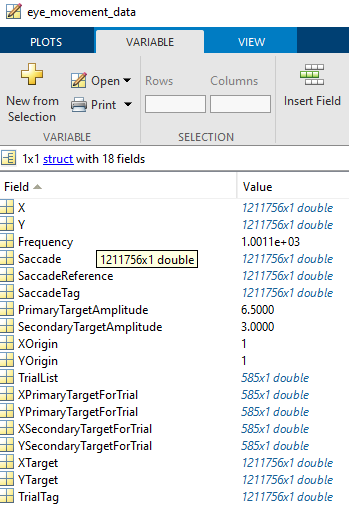
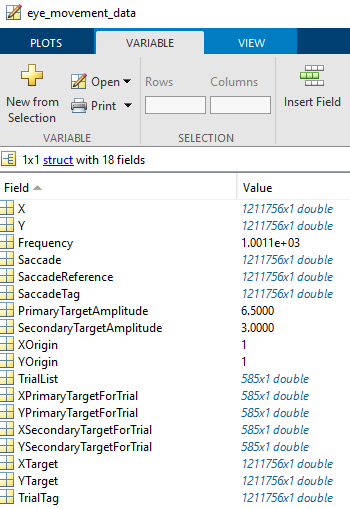
update

Changed region(s): [[0.0, 0.0, 1.0, 1.0]]

diff --git a/README.md b/README.md
@@ -2,7 +2,7 @@
 
 SACCURATE has been developed in  [Shadmehr Lab](http://www.shadmehrlab.org), [Department of Biomedical Engineering](https://www.bme.jhu.edu), [Johns Hopkins University](https://www.jhu.edu)
 
-![SACCURATE Main Window](https://d1y8sb8igg2f8e.cloudfront.net/images/shutterstock_1375463840.width-800.jpg)
+![Theme Figure](https://github.com/ShadmehrLCMC/SACCURATE/blob/main/illustrations/theme_figure.png)
 ------------------
 
 ## <a name="content">Content</a> 
